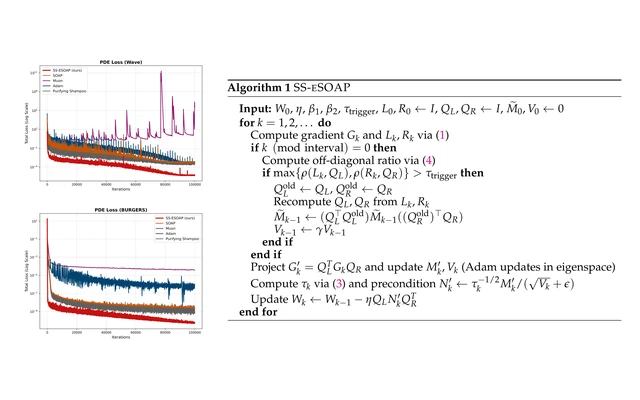
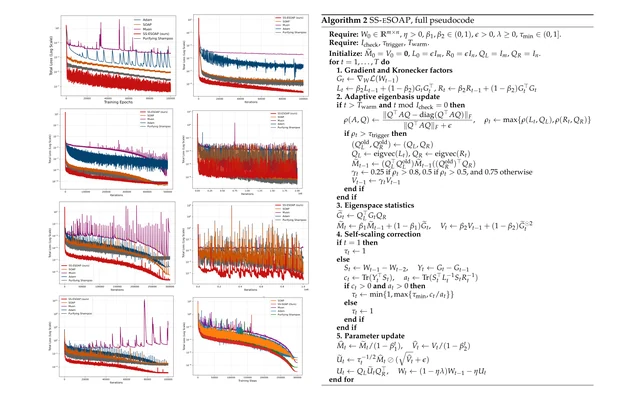
Richer plot grids for Muon/SS-ESOAP; add equations to Reflected Diffusion
- Isotropic scaling: a 2x4 grid of loss panels (Figs. 7a, 10a-c, 12a,
  12d, 13c, 13e) beside Algorithm 1, its top and bottom aligned with the
  algorithm's rules.
- SS-ESOAP: all eight PDE training-loss panels of Fig. 8 beside the
  full pseudocode (Algorithm 2), heights aligned, so the thumbnail is
  filled top to bottom.
- Reflected Diffusion: keep the drawing (scaled uniformly) and add the
  reflected SDE, the Fokker-Planck equation with its zero-flux boundary
  condition, and the PINN loss underneath, as stated in the paper.

Changed region(s): [[0.0312, 0.03, 0.9688, 0.99]]

diff --git a/images/publications/tikz/reflected-diffusion.tex b/images/publications/tikz/reflected-diffusion.tex
@@ -1,10 +1,15 @@
 % Solving Reflected Diffusion Models: A Physics-Informed Approach
 % A diffusion path reflects off the domain boundary; a physics-informed network fits the density over collocation points.
-\documentclass[tikz,border=0pt]{standalone}
+% Below the drawing: the reflected SDE, the Fokker-Planck equation with its zero-flux (Neumann) boundary
+% condition, and the PINN training loss, as stated in the paper (Sections 2-3).
+\documentclass[border=0pt]{standalone}
+\usepackage{tikz}
 \input{thumbstyle}
+\newsavebox{\drawing}
 \begin{document}
+\sbox{\drawing}{%
 \begin{tikzpicture}
-\thumbcanvas
+\useasboundingbox (0.7,0.3) rectangle (14.9,9.7);
 % Domain with a density inside.
 \shade[inner color=accent!50, outer color=teal!12] (5.4,5.0) circle (4.1);
 \foreach \x in {2.2,3.0,...,8.7} \foreach \y in {1.8,2.6,...,8.3} {
@@ -30,5 +35,26 @@
 \foreach \yb in {3.6,4.6,5.6,6.6} \fill[violet] (13.0,\yb) circle (0.2);
 \fill[accent] (14.4,5.1) circle (0.24);
 \node[text=ink] at (13.0,2.35) {\lbl{$p_\theta(x,t)$}};
+\end{tikzpicture}}%
+\begin{tikzpicture}
+\thumbcanvas
+% The drawing, scaled uniformly (line widths included) into the top of the canvas.
+\node[inner sep=0pt] at (8,6.85) {\scalebox{0.64}{\usebox{\drawing}}};
+% Key equations.
+\fill[mist, rounded corners=8pt] (0.35,0.3) rectangle (15.65,3.55);
+\draw[violet!70, line width=1.2pt, rounded corners=8pt] (0.35,0.3) rectangle (15.65,3.55);
+\node[text=ink, font=\fontsize{12}{14}\selectfont] at (8,1.925) {%
+  \renewcommand{\arraystretch}{1.55}%
+  \begin{tabular}{@{}r@{\hspace{0.9em}}l@{}}
+  \textbf{Reflected SDE} &
+  $\mathrm{d}\mathbf{X}_t=\mathbf{f}(t,\mathbf{X}_t)\,\mathrm{d}t+g(t)\,\mathrm{d}\mathbf{B}_t+\mathrm{d}\mathbf{L}_t$\\
+  \textbf{Fokker--Planck} &
+  $\partial_t u=\nabla\!\cdot\!\big({-u\mathbf{f}}+\tfrac{g^2}{2}\nabla u\big),\quad
+   \big(u\mathbf{f}-\tfrac{g^2}{2}\nabla u\big)\!\cdot\mathbf{n}=0\ \ \text{on }\partial\Omega$\\
+  \textbf{PINN loss} &
+  $L(\theta)=\frac{1}{T}\!\int_0^T\!\!\int_\Omega |R_{\mathrm{PDE}}|^2\,p_t
+   +\frac{1}{T}\!\int_0^T\!\!\int_{\partial\Omega} |R_{bc}|^2
+   +\lambda\,\mathrm{KL}\big(p_{\mathrm{data}},u_\theta(\cdot,0)\big)$
+  \end{tabular}};
 \end{tikzpicture}
 \end{document}
